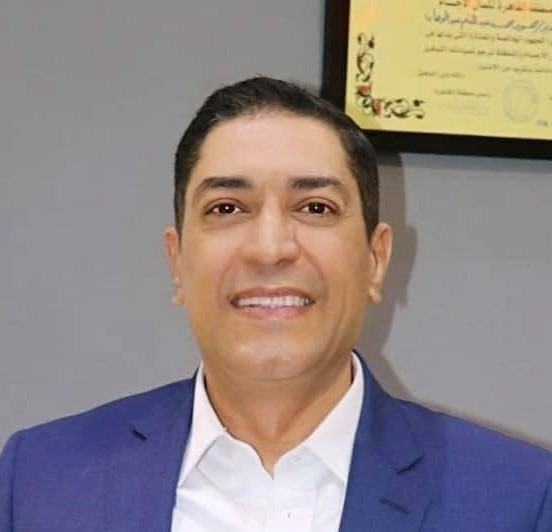
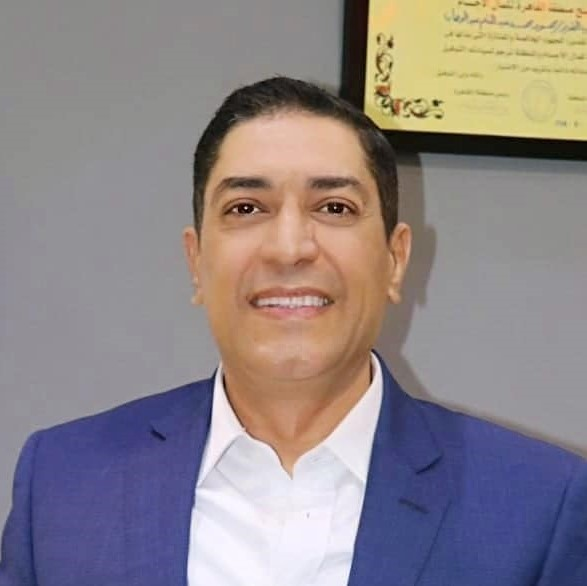
Change Developer Image

diff --git a/EN/index.html b/EN/index.html
@@ -371,7 +371,7 @@ commission programs, and notifications for trainers and class instructors to hel
                 <div class="container">
                     <div class="t-d col-lg-3 col-md-3 col-sm-12">
                         <div class="parent">
-                            <img class="img-responsive" src="../images/team/Developer.png" alt="" >
+                            <img class="img-responsive" src="../images/team/Developer.jpg" alt="" >
                             <h3>Mohammed Ghazali</h3>
                             <p>.Net Developer</p>
                             <a class="fb" href="#"><i class="fab fa-facebook-f"></i></a>

diff --git a/index.html b/index.html
@@ -371,7 +371,7 @@ commission programs, and notifications for trainers and class instructors to hel
                 <div class="container">
                     <div class="t-d col-lg-3 col-md-3 col-sm-12">
                         <div class="parent">
-                            <img class="img-responsive" src="images/team/Developer.png" alt="" >
+                            <img class="img-responsive" src="images/team/Developer.jpg" alt="" >
                             <h3>Mohammed Ghazali</h3>
                             <p>.Net Developer</p>
                             <a class="fb" href="#"><i class="fab fa-facebook-f"></i></a>
